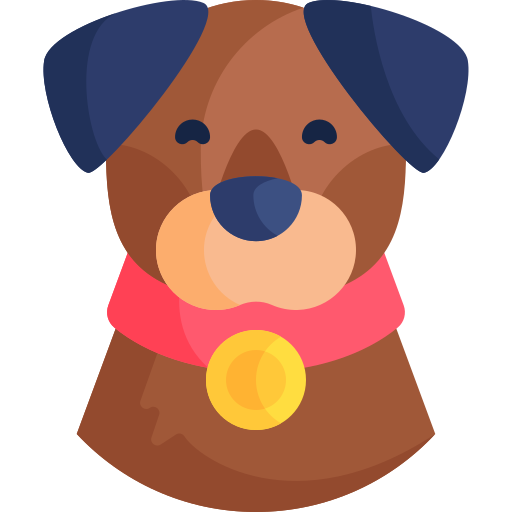
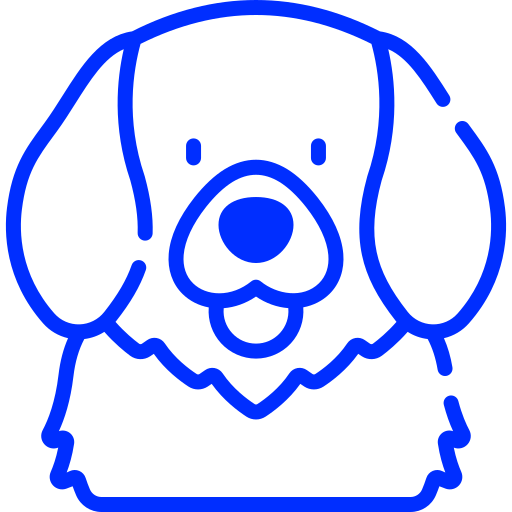
Update 5
Mudei os ícones do Tab da página de configurações, concertei erros com o botão de mudar de página e ajustei os ícones das sub-páginas.

diff --git a/src/app/componentes/Visitantes/PaginaDeDenuncias/app.jsx b/src/app/componentes/Visitantes/PaginaDeDenuncias/app.jsx
@@ -121,50 +121,55 @@ export default function Denuncie() {
                   src={`${import.meta.env.BASE_URL}pagDenuncias/policial.png`}
                 />
               </div>
-              <h1>Delegacia virtual</h1>
-              <p>
-                Todo estado possui uma delegacia virtual na qual você pode
-                acessar para denunciar, no anonimato ou não, diferentes tipos de
-                situações, incluindo situações referentes a causa animal. Se
-                você não souber o link da delegacia de seu estado, selecione seu
-                estado na caixa abaixo:
-              </p>
-              <Select
-                options={delegaciasVirtuaisDeEstadosBrasileiros}
-                onChange={handleChange}
-                placeholder="Selecione seu estado"
-                className={styles.selectEstados}
-              />
-              {/* Mostra o link se um estado foi selecionado */}
-              {estadoSelecionado && (
+              <div className={styles.conteudoDoCard}>
+                <h1>Delegacia virtual</h1>
                 <p>
-                  Para acessar a delegacia virtual de {estadoSelecionado.label},
-                  clique aqui:{" "}
-                  <a
-                    href={estadoSelecionado.link}
-                    target="_blank"
-                    rel="noopener noreferrer"
-                    className={styles.link}
-                  >
-                    {estadoSelecionado.link}
-                  </a>
+                  Todo estado possui uma delegacia virtual na qual você pode
+                  acessar para denunciar, no anonimato ou não, diferentes tipos
+                  de situações, incluindo situações referentes a causa animal.
+                  Se você não souber o link da delegacia de seu estado,
+                  selecione seu estado na caixa abaixo:
                 </p>
-              )}
+                <Select
+                  options={delegaciasVirtuaisDeEstadosBrasileiros}
+                  onChange={handleChange}
+                  placeholder="Selecione seu estado"
+                  className={styles.selectEstados}
+                />
+                {/* Mostra o link se um estado foi selecionado */}
+                {estadoSelecionado && (
+                  <p>
+                    Para acessar a delegacia virtual de{" "}
+                    {estadoSelecionado.label}, clique aqui:{" "}
+                    <a
+                      href={estadoSelecionado.link}
+                      target="_blank"
+                      rel="noopener noreferrer"
+                      className={styles.link}
+                    >
+                      {estadoSelecionado.link}
+                    </a>
+                  </p>
+                )}
+              </div>
             </div>
+
             <div className={styles.card}>
               <div className={styles.divImagem}>
                 <img
                   src={`${import.meta.env.BASE_URL}pagDenuncias/binoculo.png`}
                 />
               </div>
-              <h1>Ao presenciar</h1>
-              <p>
-                É importante manter a calma nesses momentos e não fazer nada com
-                as próprias mãos, a não ser que seja estritamente necessário,
-                pois do contrário, em alguns casos, pode acabar resultando em
-                agressões físicas ou até a morte, tanto para o animal quanto
-                para você!
-              </p>
+              <div className={styles.conteudoDoCard}>
+                <h1>Ao presenciar</h1>
+                <p>
+                  É importante manter a calma nesses momentos e não fazer nada
+                  com as próprias mãos, a não ser que seja estritamente
+                  necessário, pois do contrário, em alguns casos, pode acabar
+                  resultando em agressões físicas ou até a morte, tanto para o
+                  animal quanto para você!
+                </p>
+              </div>
             </div>
             <div className={styles.card}>
               <div className={styles.divImagem}>
@@ -172,20 +177,22 @@ export default function Denuncie() {
                   src={`${import.meta.env.BASE_URL}pagDenuncias/atendente.png`}
                 />
               </div>
-              <h1>A quem ligar?</h1>
-              <p>
-                Você pode ligar para a polícia ambiental ou militar para essas
-                situações também, especialmente se a ocorrência envolver animais
-                silvestres &#40;animais que não são domesticos, que vivem na
-                natureza&#41;.
-                <br />
-                <strong>Polícia Militar:</strong> disque 190.
-                <br />
-                <strong>Polícia Militar Ambiental:</strong> 67 3443-1095
-                <br />
-                <strong>Polícia Civil &#40;Taquarussu&#41;:</strong> 67
-                3443-1095
-              </p>
+              <div className={styles.conteudoDoCard}>
+                <h1>A quem ligar?</h1>
+                <p>
+                  Você pode ligar para a polícia ambiental ou militar para essas
+                  situações também, especialmente se a ocorrência envolver
+                  animais silvestres &#40;animais que não são domesticos, que
+                  vivem na natureza&#41;.
+                  <br />
+                  <strong>Polícia Militar:</strong> disque 190.
+                  <br />
+                  <strong>Polícia Militar Ambiental:</strong> 67 3443-1095
+                  <br />
+                  <strong>Polícia Civil &#40;Taquarussu&#41;:</strong> 67
+                  3443-1095
+                </p>
+              </div>
             </div>
           </div>
         </section>

diff --git a/src/app/componentes/Visitantes/PaginaDeDoacoes/app.jsx b/src/app/componentes/Visitantes/PaginaDeDoacoes/app.jsx
@@ -69,7 +69,9 @@ export default function ComoDoar() {
             </h2>
             <div className={styles.alinharContainerIcones}>
               <div className={styles.containerIcones}>
-                <img src="pagDoacao/caminha.png"></img>
+                <div className={styles.containerImagem}>
+                  <img src="pagDoacao/caminha.png"></img>
+                </div>
                 <p>
                   <strong>Caminha de animais:</strong> Todos os nossos animais
                   dormem em camas para animais com tamanhos de acordo com o
@@ -80,7 +82,9 @@ export default function ComoDoar() {
                 </p>
               </div>
               <div className={styles.containerIcones}>
-                <img src="pagDoacao/coleira.png"></img>
+                <div className={styles.containerImagem}>
+                  <img src="pagDoacao/coleira.png"></img>
+                </div>
                 <p>
                   <strong>Coleira:</strong> Coleiras são muito úteis no momento
                   de colocar o cone veterinário, pois elas dão sustentação ao
@@ -89,7 +93,9 @@ export default function ComoDoar() {
                 </p>
               </div>
               <div className={styles.containerIcones}>
-                <img src="pagDoacao/cone.png"></img>
+                <div className={styles.containerImagem}>
+                  <img src="pagDoacao/cone.png"></img>
+                </div>
                 <p>
                   <strong>Cone Veterinário:</strong> Eventualmente nós
                   resgatamos animais doentes, que por sua vez, precisam do cone
@@ -99,7 +105,9 @@ export default function ComoDoar() {
                 </p>
               </div>
               <div className={styles.containerIcones}>
-                <img src="pagDoacao/racao.png"></img>
+                <div className={styles.containerImagem}>
+                  <img src="pagDoacao/racao.png"></img>
+                </div>
                 <p>
                   <strong>Ração:</strong> Assim como nós, os animais também
                   precisam se alimentar e com tantos animais, a nossa demanda de

diff --git a/src/app/componentes/Administradores/PaginaDeConfiguracoes/PaginaPrincipal/configuracoes.module.css b/src/app/componentes/Administradores/PaginaDeConfiguracoes/PaginaPrincipal/configuracoes.module.css
@@ -26,8 +26,6 @@
   flex-direction: column;
   width: 100%;
   min-height: auto;
-  border-top-left-radius: inherit;
-  border-top-right-radius: inherit;
   justify-content: flex-start;
   padding: 10px;
   margin-bottom: 50px;
@@ -37,6 +35,7 @@
 .topoInicioPainel {
   display: flex;
   justify-content: space-between;
+  align-items: center;
 }
 
 .alinharInfoUsuario {
@@ -82,7 +81,7 @@
   background-color: rgb(255, 0, 85);
   border-radius: 2em;
   padding: 3px 12px;
-  transition: transform ease-in-out .2s;
+  transition: transform ease-in-out 0.2s;
 }
 
 .alinharDeslogue:hover {
@@ -120,7 +119,7 @@
   border: none !important;
   margin-right: 8px;
   border-radius: 8px !important;
-  padding: 0.466rem 18px !important;
+  padding: 10px 20px !important;
   transition: transform 0.3s ease;
 }
 
@@ -150,7 +149,7 @@
 
 .iconeTab {
   display: none;
-  width: 30px;
+  width: 40px;
   object-fit: contain;
 }
 
@@ -201,7 +200,6 @@
   font-size: 0.9rem;
 }
 
-
 @media (max-width: 1100px) {
   .fundoPainel {
     padding-block: 40px;
@@ -235,7 +233,12 @@
   .tab {
     padding: 0 !important;
   }
-  @media (max-width: 768px) {
+
+  .tabPadrao {
+    margin-right: 15px;
+    padding: 5px !important;
+  }
+
   .iconeTab {
     display: block;
   }
@@ -247,8 +250,8 @@
   .conteudoTab {
     gap: 0;
   }
-}
-  .acessoNegado{
+
+  .acessoNegado {
     padding: 1.5rem;
     min-height: 120px;
   }

diff --git a/src/app/componentes/Administradores/PaginaDeConfiguracoes/PaginaPrincipal/app.jsx b/src/app/componentes/Administradores/PaginaDeConfiguracoes/PaginaPrincipal/app.jsx
@@ -192,7 +192,7 @@ export default function Configuracoes() {
               title={
                 <div className={styles.conteudoTab}>
                   <img
-                    src={`${import.meta.env.BASE_URL}pagConfiguracoes/carteira.png`}
+                    src={`${import.meta.env.BASE_URL}pagConfiguracoes/doacoes.png`}
                     alt=""
                     className={styles.iconeTab}
                   />
@@ -213,7 +213,7 @@ export default function Configuracoes() {
               title={
                 <div className={styles.conteudoTab}>
                   <img
-                    src={`${import.meta.env.BASE_URL}pagConfiguracoes/funcoesAdm.png`}
+                    src={`${import.meta.env.BASE_URL}pagConfiguracoes/configuracoes.png`}
                     alt=""
                     className={styles.iconeTab}
                   />

diff --git a/src/app/componentes/Visitantes/PaginaDeDenuncias/denuncie.module.css b/src/app/componentes/Visitantes/PaginaDeDenuncias/denuncie.module.css
@@ -140,7 +140,6 @@ section.secao.parallax2 {
   display: flex;
   width: 100%;
   position: relative;
-  margin-bottom: 40px;
 }
 
 .conteudo1 .painel .card .divImagem::before {
@@ -156,18 +155,20 @@ section.secao.parallax2 {
 }
 
 .conteudo1 .painel .card img {
-  width: 140px;
+  width: 120px;
   margin-inline: auto;
-  border-radius: 50%;
-  overflow: visible;
   z-index: 10;
+  margin-bottom: 20px;
+}
+
+.conteudo1 .painel .conteudoDoCard{
+  background-color: rgb(255, 255, 255);
 }
 
 .conteudo1 .painel .card h1 {
   text-align: center;
-  -webkit-text-stroke-color: #ffffff;
-  -webkit-text-stroke-width: 0.03rem;
-  z-index: 10;
+  z-index: 1000;
+  position: relative;
 }
 
 .conteudo1 .painel .card p {

diff --git a/src/app/componentes/Visitantes/PaginaDeDoacoes/doe.module.css b/src/app/componentes/Visitantes/PaginaDeDoacoes/doe.module.css
@@ -195,9 +195,26 @@ section.secao.parallax2 {
   height: 100px;
   width: 100px;
   padding: 15px;
-  background-color: #f0f0f0;
+}
+
+.containerIcones .containerImagem {
+  display: flex;
+  height: auto;
+  width: auto;
+  position: relative;
+}
+
+.containerIcones .containerImagem::before {
+  content: "";
+  position: absolute;
+  top: 0;
+  left: 0;
+  height: 100px;
+  width: 100px;
+  background-color: #ffbb00;
   border-radius: 50%;
-  overflow: visible;
+  border: 2px solid black;
+  z-index: -1;
 }
 
 .containerIcones p {

diff --git a/src/app/componentes/Administradores/BotaoPagInicialAdms/botaoPagInicialAdms.module.css b/src/app/componentes/Administradores/BotaoPagInicialAdms/botaoPagInicialAdms.module.css
@@ -3,6 +3,8 @@
   top: 50%;
   transform: translateY(-50%);
   z-index: 90000000;
+  pointer-events: none;
+  width: 30px;
 }
 
 .botaoPagInicial {
@@ -17,6 +19,7 @@
   left: -70px;
   transition: left 0.5s ease-in-out, background-color 0.5s ease-in-out;
   transition-delay: 0.15s;
+  pointer-events: all;
 }
 
 .botaoPagInicial img {

diff --git a/src/app/componentes/Visitantes/BotaoParaPaginaDeAdms/botaoPagInicialVisitantes.module.css b/src/app/componentes/Visitantes/BotaoParaPaginaDeAdms/botaoPagInicialVisitantes.module.css
@@ -3,6 +3,8 @@
   top: 50%;
   transform: translateY(-50%);
   z-index: 90000000;
+  pointer-events: none;
+  width: 30px;
 }
 
 .botaoPagInicial {
@@ -17,6 +19,7 @@
   left: -70px;
   transition: left 0.5s ease-in-out, background-color 0.5s ease-in-out;
   transition-delay: 0.15s;
+  pointer-events: all;
 }
 
 .botaoPagInicial img {

diff --git a/src/app/componentes/Administradores/PaginaDeConfiguracoes/FuncoesAdm/funcoesAdm.module.css b/src/app/componentes/Administradores/PaginaDeConfiguracoes/FuncoesAdm/funcoesAdm.module.css
@@ -102,7 +102,7 @@
 @media (max-width: 768px) {
   .conteudoFuncoesAdm {
     padding: 20px;
-    row-gap: 0;
+    row-gap: 20px;
   }
 
   .blocoFuncao {
@@ -129,8 +129,7 @@
   .selectConfig,
   .input {
     margin-bottom: 10px;
-    width: auto;
-    max-width: 100%;
+    width: 100%;
   }
 
   .botaoPadraoConfig {

diff --git a/src/App.css b/src/App.css
@@ -60,3 +60,11 @@ body::-webkit-scrollbar-thumb {
 body::-webkit-scrollbar-thumb:hover {
   background-color: #fcfcfc;
 }
+
+@view-transition{
+  navigation: auto
+}
+
+::view-transition-group(root){
+  animation-duration: 1s;
+}
